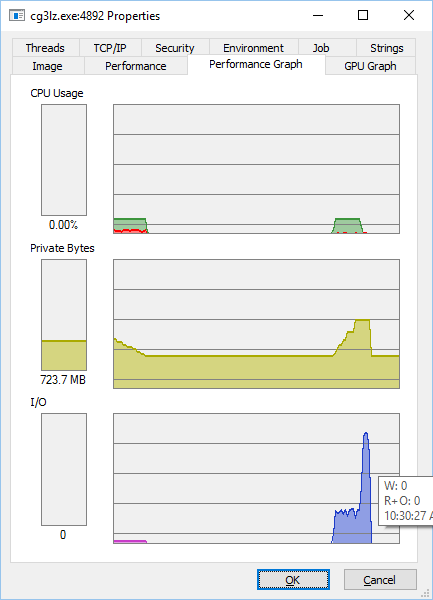
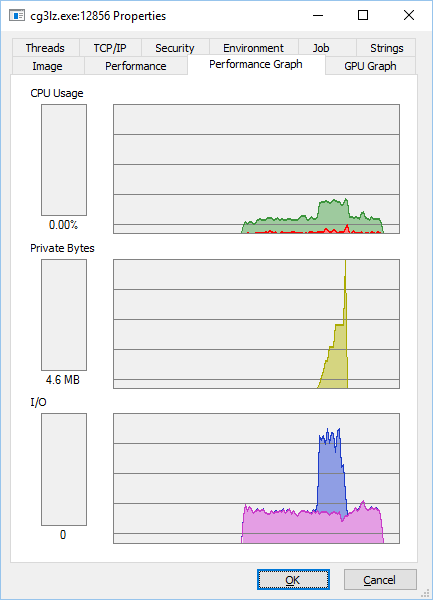
download during burst logging pic updated [ci skip]

diff --git a/README.md b/README.md
@@ -120,12 +120,12 @@ See the premake build config and premake documentation
 
 ## Commentary ##
 
-The implementation is naive at the moment, and might potentially interfere with the log rotation mechanism.
-
-Download 600mb:
-
-![](download.png)
-
 Burst logging:
 
 ![](spdlog.png)
+
+The implementation of the download is naive at the moment, and might potentially interfere with the log rotation mechanism, but the memory is cleaned up properly.
+
+Download ~500mb during burst logging:
+
+![](download.png)
